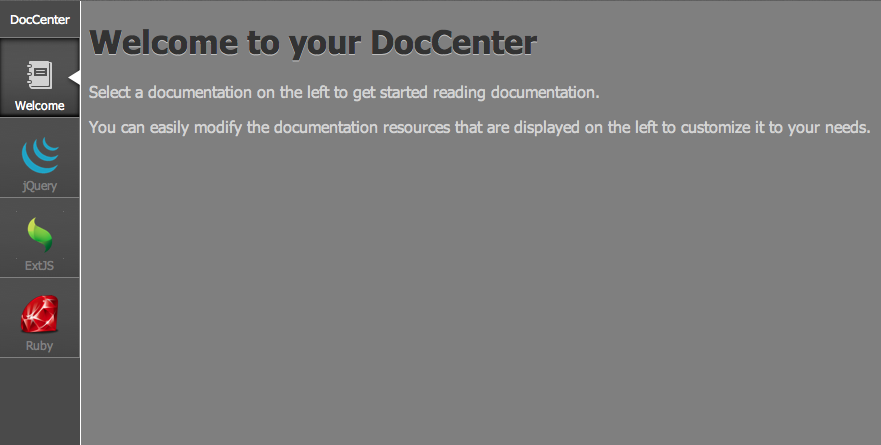
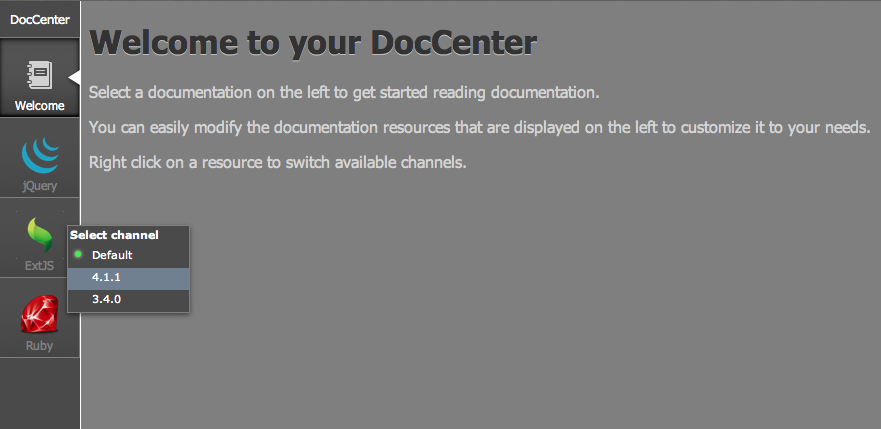
Note channels on welcome page

diff --git a/welcome.html b/welcome.html
@@ -20,6 +20,7 @@
 <h1>Welcome to your DocCenter</h1>
 <p>Select a documentation on the left to get started reading documentation.</p>
 <p>You can easily modify the documentation resources that are displayed on the left to customize it to your needs.</p>
+<p>Right click on a resource to switch available channels.</p>
 
 </body>
 </html>

diff --git a/README.md b/README.md
@@ -8,7 +8,7 @@ DocCenter is a small but very useful documentation center that allows you to pul
 ![Screenshot](/resources/images/screenshot.png "Screenshot")
 
 
-It shows an unobstrusive sidebar on left which allows you to switch documentation sites. The documentation is then loaded as an iframe in the mainarea.
+It shows an unobstrusive sidebar on left which allows you to switch documentation sites. The documentation is then loaded as an iframe in the main area.
 
 It also allows you to configure multiple channels for every documentation resource.
 The user can then switch between the channels and DocCenter remembers which channel was used on which resource and will use that channel on reload.
